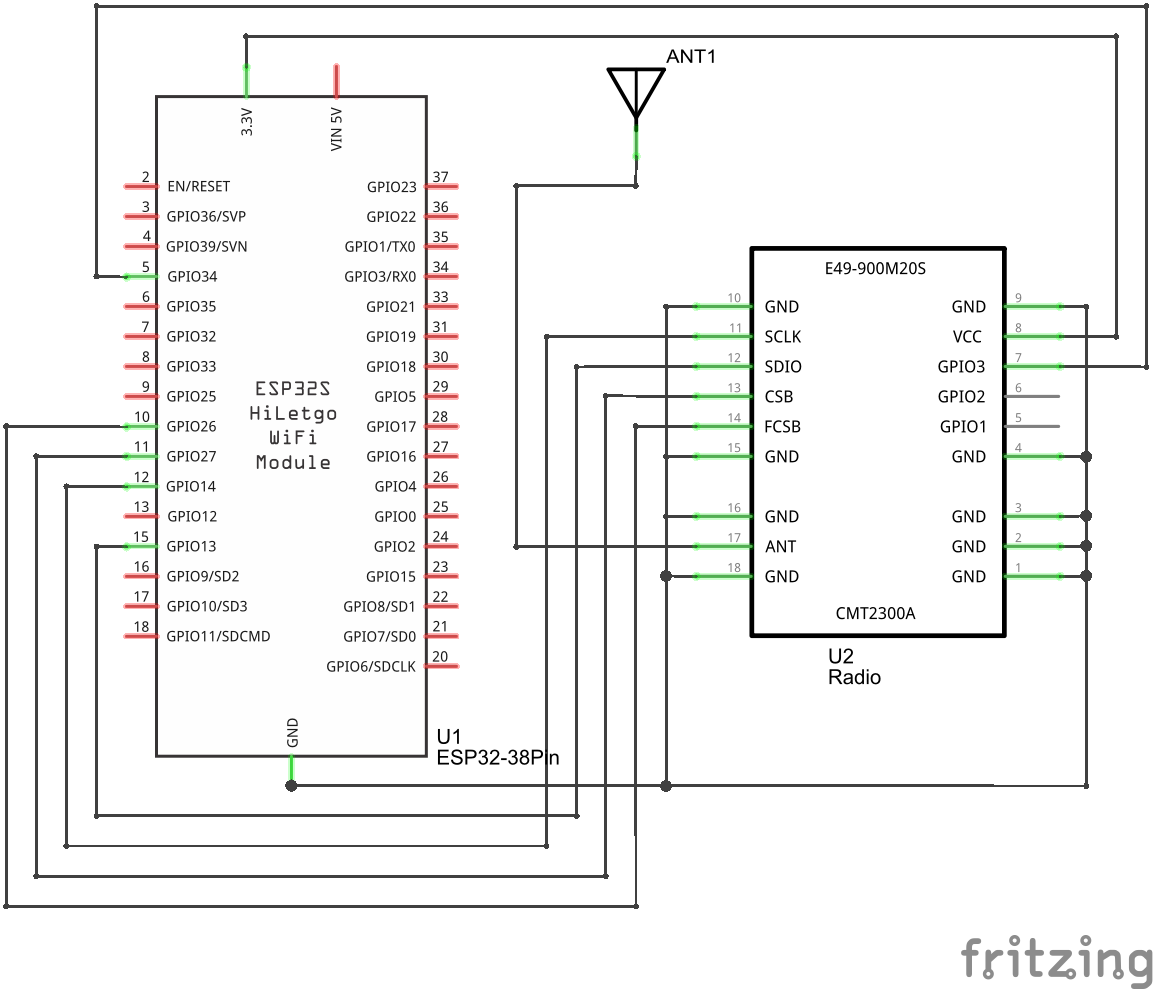
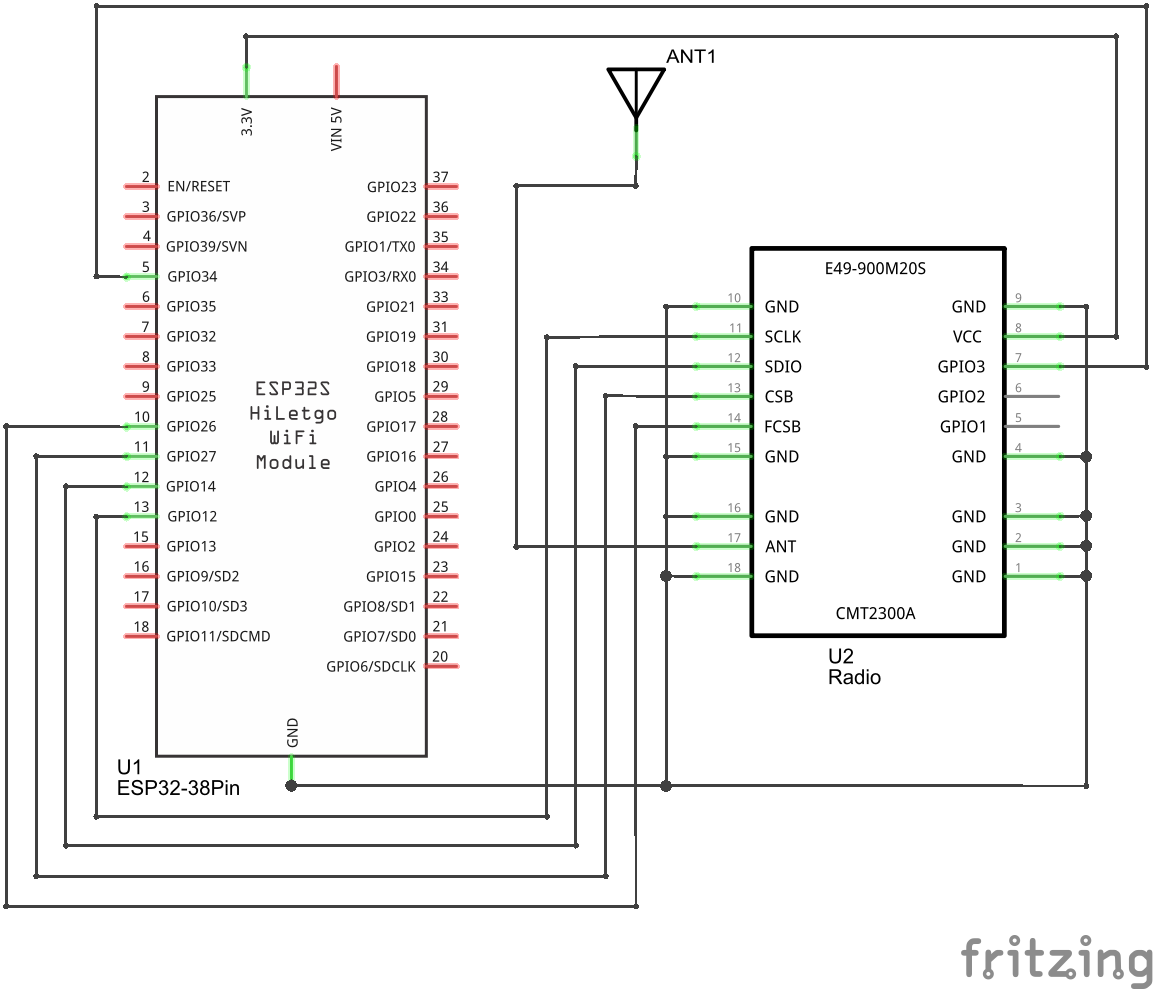
fixed fritzings for CMT added lumapu to imprint

diff --git a/content/imprint.html b/content/imprint.html
@@ -12,6 +12,9 @@ draft: false
         <div class="col-lg-6">
             <h4>Kontakt</h4>
             <p class="lead">
+                lumapu (<a href="https://github.com/lumapu">Github</a> / Discord)
+            </p>
+            <p class="lead">
                 Lukas Pusch<br/>
                 Flurstraße 1a<br/>
                 82239 Alling
